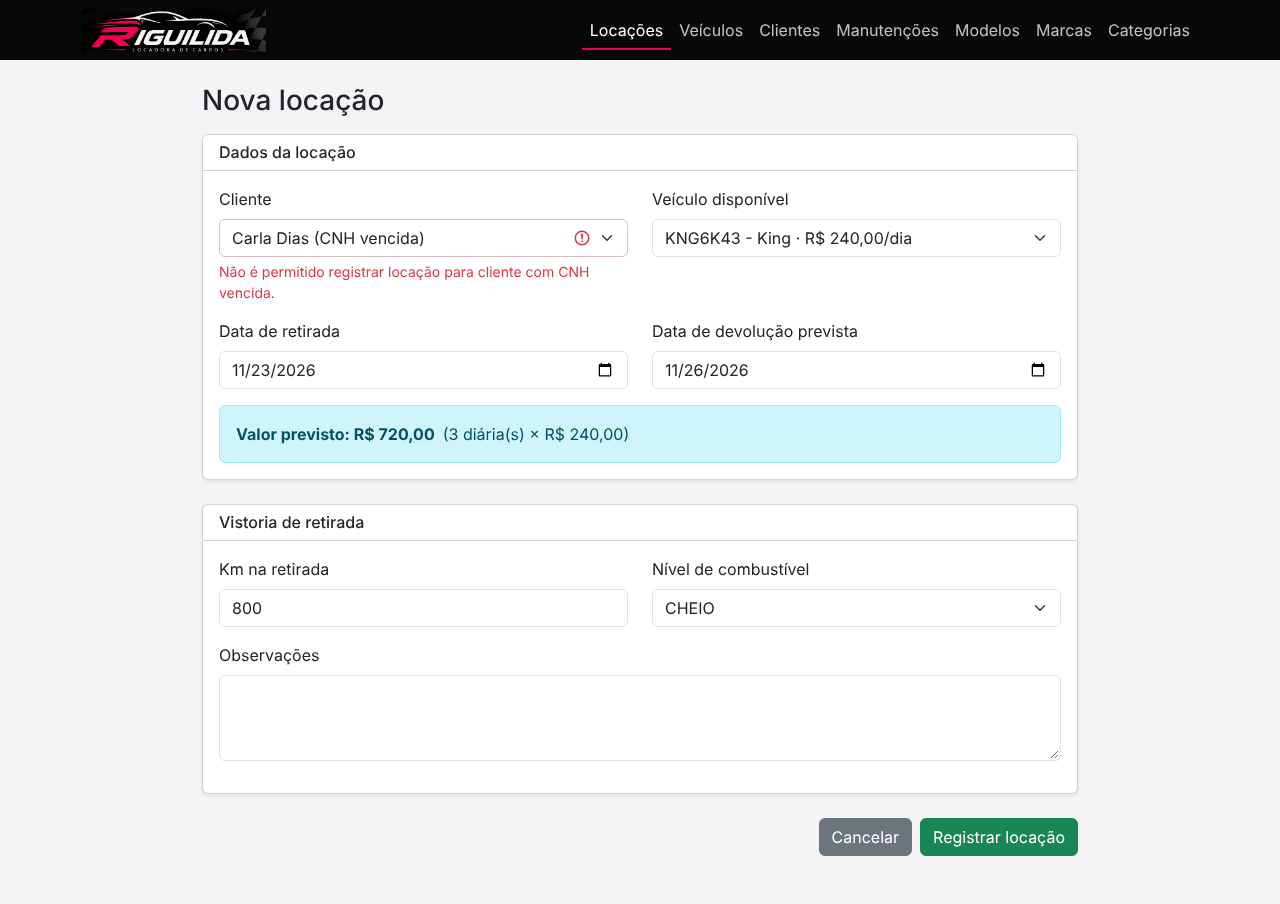
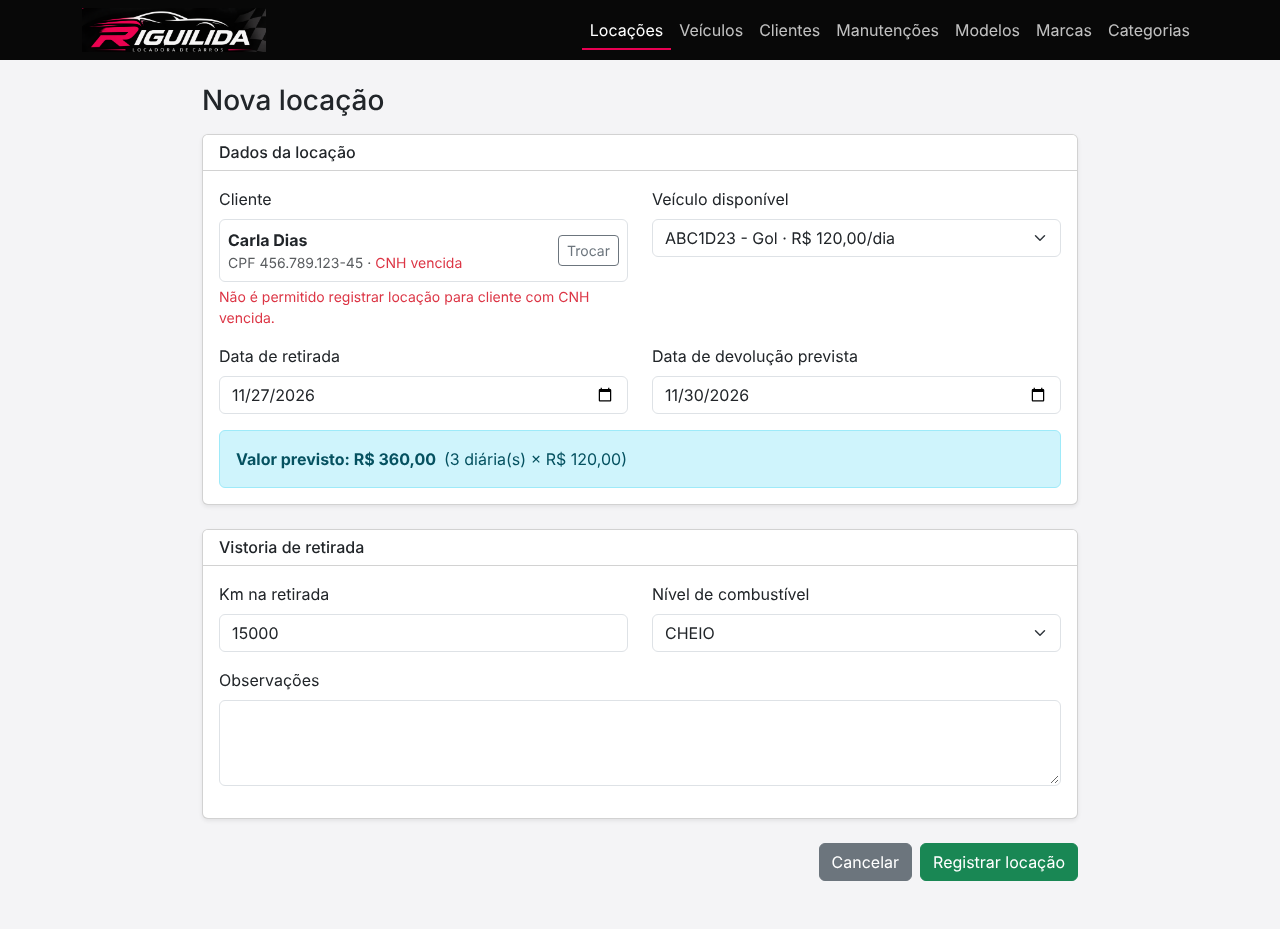
buscando o cliente pelo nome ou cpf na locação

diff --git a/src/pages/locacoes/LocacaoForm.tsx b/src/pages/locacoes/LocacaoForm.tsx
@@ -14,7 +14,7 @@ import type { Manutencao } from "../../models/Manutencao";
 import type { Modelo } from "../../models/Modelo";
 import { calcularSituacaoVeiculo, descreverVeiculo, type Veiculo } from "../../models/Veiculo";
 import { niveisCombustivel, type NivelCombustivel } from "../../models/Vistoria";
-import { dataHoje, formatarMoeda, mensagemDeErro } from "../../models/formatadores";
+import { dataHoje, formatarData, formatarMoeda, mensagemDeErro } from "../../models/formatadores";
 import { categoriaService } from "../../service/categoriaService";
 import { clienteService } from "../../service/clienteService";
 import { contratoService } from "../../service/contratoService";
@@ -39,6 +39,7 @@ export const LocacaoForm = () => {
   const [nivelCombustivel, setNivelCombustivel] = useState<NivelCombustivel>("CHEIO");
   const [observacoes, setObservacoes] = useState("");
   const [clientes, setClientes] = useState<Cliente[]>([]);
+  const [buscaCliente, setBuscaCliente] = useState("");
   const [veiculos, setVeiculos] = useState<Veiculo[]>([]);
   const [modelos, setModelos] = useState<Modelo[]>([]);
   const [categorias, setCategorias] = useState<Categoria[]>([]);
@@ -74,6 +75,26 @@ export const LocacaoForm = () => {
   const veiculosDisponiveis = veiculos.filter(
     (veiculo) => calcularSituacaoVeiculo(veiculo.id ?? "", locacoes, manutencoes, hoje) === "DISPONIVEL",
   );
+
+  // Busca de cliente por nome ou CPF (mostra no máximo 6 resultados)
+  const somenteNumeros = (texto: string) => texto.replace(/\D/g, "");
+  const termo = buscaCliente.trim().toLowerCase();
+  const clientesEncontrados =
+    termo.length < 2
+      ? []
+      : clientes
+          .filter(
+            (cliente) =>
+              cliente.nome.toLowerCase().includes(termo) ||
+              (somenteNumeros(termo).length > 0 && somenteNumeros(cliente.cpf).includes(somenteNumeros(termo))),
+          )
+          .slice(0, 6);
+  const clienteSelecionado = clientes.find((cliente) => cliente.id === locacao.clienteId);
+
+  const selecionarCliente = (clienteId: string) => {
+    setLocacao((atual) => ({ ...atual, clienteId }));
+    setBuscaCliente("");
+  };
 
   const nomeModelo = (veiculo: Veiculo): string | undefined =>
     modelos.find((modelo) => modelo.id === veiculo.modeloId)?.nome;
@@ -177,17 +198,77 @@ export const LocacaoForm = () => {
         <Card title="Dados da locação">
           <div className="row">
             <div className="col-md-6">
-              <Select
-                label="Cliente"
-                name="clienteId"
-                value={locacao.clienteId}
-                options={clientes.map((cliente) => ({
-                  value: cliente.id ?? "",
-                  label: `${cliente.nome}${cnhVencida(cliente, hoje) ? " (CNH vencida)" : ""}`,
-                }))}
-                onChange={handleChange}
-                error={erros.clienteId}
-              />
+              {clienteSelecionado ? (
+                <div className="mb-3">
+                  <span className="form-label d-block">Cliente</span>
+                  <div className="border rounded p-2 d-flex justify-content-between align-items-center">
+                    <div>
+                      <strong>{clienteSelecionado.nome}</strong>
+                      <small className="text-muted d-block">
+                        CPF {clienteSelecionado.cpf} ·{" "}
+                        {cnhVencida(clienteSelecionado, hoje) ? (
+                          <span className="text-danger">CNH vencida</span>
+                        ) : (
+                          `CNH válida até ${formatarData(clienteSelecionado.validadeCnh)}`
+                        )}
+                      </small>
+                    </div>
+                    <Button
+                      label="Trocar"
+                      variant="outline-secondary"
+                      size="sm"
+                      onClick={() => setLocacao((atual) => ({ ...atual, clienteId: "" }))}
+                    />
+                  </div>
+                  {erros.clienteId && <div className="text-danger small mt-1">{erros.clienteId}</div>}
+                </div>
+              ) : (
+                <>
+                  <Input
+                    label="Cliente"
+                    name="buscaCliente"
+                    value={buscaCliente}
+                    placeholder="Digite o nome ou o CPF"
+                    onChange={(event) => setBuscaCliente(event.target.value)}
+                    error={erros.clienteId}
+                  />
+                  {termo.length >= 2 && (
+                    <ul className="list-group mb-3" style={{ marginTop: "-0.5rem" }}>
+                      {clientesEncontrados.length === 0 && (
+                        <li className="list-group-item d-flex justify-content-between align-items-center">
+                          <span className="text-muted">Nenhum cliente encontrado.</span>
+                          <Button
+                            label="Cadastrar cliente"
+                            variant="outline-primary"
+                            size="sm"
+                            onClick={() => navigate("/clientes/novo")}
+                          />
+                        </li>
+                      )}
+                      {clientesEncontrados.map((cliente) => (
+                        <li
+                          className="list-group-item d-flex justify-content-between align-items-center"
+                          key={cliente.id}
+                        >
+                          <span>
+                            {cliente.nome}
+                            <small className="text-muted d-block">
+                              CPF {cliente.cpf}
+                              {cnhVencida(cliente, hoje) && <span className="text-danger"> · CNH vencida</span>}
+                            </small>
+                          </span>
+                          <Button
+                            label="Selecionar"
+                            variant="outline-primary"
+                            size="sm"
+                            onClick={() => selecionarCliente(cliente.id ?? "")}
+                          />
+                        </li>
+                      ))}
+                    </ul>
+                  )}
+                </>
+              )}
             </div>
             <div className="col-md-6">
               <Select

diff --git a/README.md b/README.md
@@ -43,7 +43,7 @@ O arquivo `db.json` já vem com dados de exemplo (marcas, categorias, modelos, v
 
 **Processo de locação**
 - Veículos exibidos em cards com categoria, diária, situação, placa, cor e km. Nos carros disponíveis, o botão **Alugar** abre a nova locação com o veículo já selecionado.
-- Registro da locação escolhendo o cliente, um veículo disponível e as datas de retirada e devolução prevista.
+- Registro da locação buscando o cliente pelo nome ou CPF (sem precisar rolar uma lista), escolhendo um veículo disponível e as datas de retirada e devolução prevista.
 - Cálculo automático do valor previsto: nº de diárias × valor da diária da categoria.
 - Contrato gerado automaticamente, com número único e data de emissão.
 - Vistoria de retirada (km, nível de combustível e observações).
